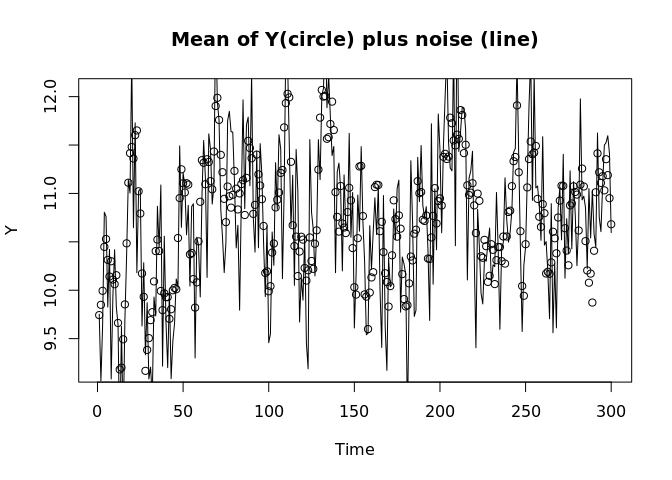
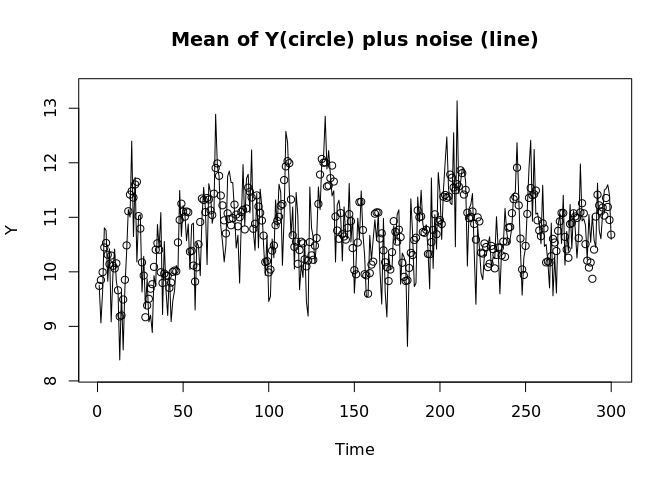
formatting of figures

diff --git a/README.md b/README.md
@@ -17,7 +17,7 @@ set.seed(1)
 
 ------------------------------------------------------------------------
 
-#### Generate a single realization of time-series, stochastic level and koyck lag
+### Generate a single realization of time-series, stochastic level and koyck lag
 
 ``` r
 # Numer of observations (time points)
@@ -80,7 +80,7 @@ yMean    <- as.numeric(lag_mat %*% lagFunction) + alpha
 y <- yMean + rnorm(Tn, mean = 0, sd = sigma_Y)
 
 
-plot(yMean, ylab = c("Y"), xlab = "Time"); 
+plot(yMean, ylab = c("Y"), xlab = "Time", ylim=c( min(y) -0.2, max(y) + 0.2)); 
 lines(y, type = "l"); 
 title(main = "Mean of Y(circle) plus noise (line)")
 ```
@@ -111,7 +111,7 @@ x <- x[-H] # Trim lag horizon
 #}
 ```
 
-#### Fitting stan models
+### Fitting stan models
 
 ``` r
 ### Compile and execute a Stan model 
@@ -152,7 +152,7 @@ pairs(fit3, pars = c("sigma_V", "sigma_alpha",  "sigma_alpha", "beta", "lambda",
 sum(summary(fit3)$summary[,"Rhat"] > 1.01)
 ```
 
-#### Compile result (Impulse Response Function) - relevant only if there is a sign of convergence in MCMC
+### Compile result (Impulse Response Function) - relevant only if there is a sign of convergence in MCMC
 
 ``` r
 ### Generate Impuse response function from fit 
@@ -177,7 +177,7 @@ p <-  ggplot(data = irfWeight, aes(x=(weekLag), y=median)) +
   geom_ribbon(aes(ymin=lo, ymax=hi), linetype=2, alpha=0.1)  + 
   scale_y_continuous(labels=scaleFUN) + 
   theme(axis.text = element_text(color = "black")) + 
-  ggtitle("Impulse reponse function (Black) and pointwise 95% credible range.\n Red dotted line is true lag function")
+  ggtitle("Impulse reponse function (Black) \n with pointwise 95% credible range. \n Red dotted line is true lag function")
 
 # Add the true lag function 
 p + geom_line(aes(y = lagTrue, colour = "red"), linetype="dashed")
@@ -195,7 +195,7 @@ p + geom_line(aes(y = lagTrue, colour = "red"), linetype="dashed")
  points(y, pch = 3, cex = 0.5, col = "blue")
  lines(hi, lty = "dotted")
  lines(median, type = "l", lwd = 1)
- title(main = "Predictive distribution of and observed Y \n Fitted mean:solid line, 95% credible interval: dotted line, overved Y: cross ")
+ title(main = "Predictive distribution of and observed Y \n Fitted mean:solid line \n 95% credible interval: dotted line \n  Observed Y: cross ")
 ```
 
 ![](README_files/figure-markdown_github/unnamed-chunk-4-2.png)
